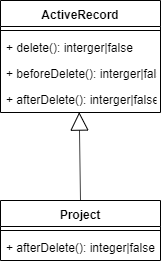
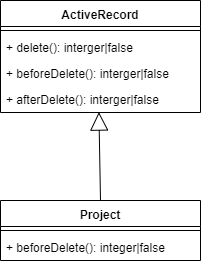
Fix bug Project#delete()

diff --git a/src/app/models/Term.php b/src/app/models/Term.php
@@ -3,6 +3,7 @@
 namespace app\models;
 
 use Yii;
+use yii\helpers\ArrayHelper;
 
 /**
  * This is the model class for table "term".
@@ -21,11 +22,13 @@ use Yii;
  *
  * @property string $projectName
  * @property string $parentTermVocabulary
+ * @property string $typeStr
  */
 class Term extends \yii\db\ActiveRecord
 {
     const TYPE_PROJECT_TERM = 1;
     const TYPE_ADDITIONAL_TERM = 2;
+    const TYPE_OTHER = 3;
 
     /**
      * {@inheritdoc}
@@ -64,6 +67,7 @@ class Term extends \yii\db\ActiveRecord
             'description' => 'Description',
             'type' => 'Type',
             'parent_term_id' => 'Parent Term ID',
+            'typeStr' => 'Type',
         ];
     }
 
@@ -118,5 +122,39 @@ class Term extends \yii\db\ActiveRecord
         //     return NULL;
         // }
         return $this->parent_term_id ? $this->parentTerm->vocabulary : NULL;
+    }
+
+    /**
+     * @return string[]
+     */
+    public static function typeOptionArr()
+    {
+        // [1 => '案件の用語', 2 => '追加用語']
+        return [
+            self::TYPE_PROJECT_TERM => '案件の用語',
+            self::TYPE_ADDITIONAL_TERM => '追加用語',
+            self::TYPE_OTHER => 'その他',
+        ];
+    }
+
+    /**
+     * Property $typeStr
+     * @return string
+     */
+    public function getTypeStr()
+    {
+        // return self::typeOptionArr()[$this->type];
+        return ArrayHelper::getValue(self::typeOptionArr(), $this->type);
+    }
+
+    /**
+     * Delete all child terms before delete this one.
+     */
+    function beforeDelete()
+    {
+        foreach ($this->childTerms as $term) {
+            $term->delete();
+        }
+        return parent::beforeDelete();
     }
 }

diff --git a/src/app/models/Project.php b/src/app/models/Project.php
@@ -77,4 +77,34 @@ class Project extends \yii\db\ActiveRecord
     {
         return $this->hasMany(Term::className(), ['project_id' => 'id']);
     }
+
+    /**
+     * Delete all child terms before delete this one.
+     */
+    // function beforeDelete()
+    // {
+    //     // Delete all term (that does not have parent term)
+    //     foreach ($this->terms as $term) {
+    //         if (!$term->parent_term_id) {
+    //             $term->delete();
+    //         }
+    //     }
+    //     return parent::beforeDelete();
+    // }
+
+    function delete()
+    {
+        foreach ($this->terms as $term) {
+            if (!$term->parent_term_id) {
+                $term->delete();
+            }
+        }
+        parent::delete();
+    }
+
+    // function delete()
+    // {
+    //     Term::deleteAll(['project_id' => $this->id]);
+    //     parent::delete();
+    // }
 }

diff --git a/src/app/views/term/index.php b/src/app/views/term/index.php
@@ -1,5 +1,6 @@
 <?php
 
+use app\models\Term;
 use yii\helpers\Html;
 use yii\grid\GridView;
 
@@ -30,7 +31,11 @@ $this->params['breadcrumbs'][] = $this->title;
             'language',
             'vocabulary',
             'description:ntext',
-            'type',
+            [
+                'attribute' => 'type',
+                'filter' => Term::typeOptionArr(),
+                'value' => 'typeStr',
+            ],
             'parentTermVocabulary',
 
             ['class' => 'yii\grid\ActionColumn'],

diff --git a/src/app/views/term/_form.php b/src/app/views/term/_form.php
@@ -1,5 +1,6 @@
 <?php
 
+use app\models\Term;
 use yii\helpers\Html;
 use yii\widgets\ActiveForm;
 
@@ -20,7 +21,7 @@ use yii\widgets\ActiveForm;
 
     <?= $form->field($model, 'description')->textarea(['rows' => 6]) ?>
 
-    <?= $form->field($model, 'type')->textInput() ?>
+    <?= $form->field($model, 'type')->radioList(Term::typeOptionArr()) ?>
 
     <?= $form->field($model, 'parent_term_id')->textInput() ?>
 

diff --git a/src/app/config/db.php b/src/app/config/db.php
@@ -8,7 +8,7 @@ return [
     'charset' => 'utf8',
 
     // Schema cache options (for production environment)
-    //'enableSchemaCache' => true,
-    //'schemaCacheDuration' => 60,
-    //'schemaCache' => 'cache',
+    'enableSchemaCache' => true,
+    'schemaCacheDuration' => 60,
+    'schemaCache' => 'cache',
 ];

diff --git a/src/app/views/term/view.php b/src/app/views/term/view.php
@@ -33,7 +33,7 @@ $this->params['breadcrumbs'][] = $this->title;
             'language',
             'vocabulary',
             'description:ntext',
-            'type',
+            'typeStr',
             'parentTermVocabulary',
         ],
     ]) ?>

diff --git a/docs/05.2.AR/README.md b/docs/05.2.AR/README.md
@@ -12,8 +12,8 @@ Trong bài này, chúng ta sẽ tìm hiểu sâu hơn về ActiveRecord và các
 * Search model class.
 * Tip
   * DRY
-  * Behavior.
-  * Function override.
+  * Function override
+  * 2 cách xóa term
 
 ## ActiveRecord
 
@@ -121,38 +121,41 @@ public function actionIndex()
 Các tham số tìm kiếm Project, nếu được chỉ định trong params, thì sẽ được đưa vào điều kiện tìm kiếm.
 Nếu không được chỉ định, thì sẽ không được đưa vào điều kiện tìm kiếm.
 ```php
-/**
- * $param array $params array sẽ có một key là ProjectSearch, chứa các điều kiện filter.
- */
-public function search($params)
+class ProjectSearch extends Project
 {
-    // Load các điều kiện filter được chỉ định trong $params['ProjectSearch']
-    // Lệnh này sẽ load $params['ProjectSearch']['id'] vào $this->id
-    // Lệnh này sẽ load $params['ProjectSearch']['name'] vào $this->name
-    // Lệnh này sẽ load $params['ProjectSearch']['remarks'] vào $this->remarks
-    $this->load($params);
+    /**
+     * $param array $params array sẽ có một key là ProjectSearch, chứa các điều kiện filter.
+     */
+    public function search($params)
+    {
+        // Load các điều kiện filter được chỉ định trong $params['ProjectSearch']
+        // Lệnh này sẽ load $params['ProjectSearch']['id'] vào $this->id
+        // Lệnh này sẽ load $params['ProjectSearch']['name'] vào $this->name
+        // Lệnh này sẽ load $params['ProjectSearch']['remarks'] vào $this->remarks
+        $this->load($params);
 
-    $query = Project::find(); // Tạo ra một ActiveQuery
+        $query = Project::find(); // Tạo ra một ActiveQuery
 
-    // Nếu id được chỉ định trong $params, thì câu lệnh SQL sẽ có điều kiện WHERE id = :id
-    $query->andFilterWhere([
-        'id' => $this->id,
-    ]);
+        // Nếu id được chỉ định trong $params, thì câu lệnh SQL sẽ có điều kiện WHERE id = :id
+        $query->andFilterWhere([
+            'id' => $this->id,
+        ]);
 
-    // Nếu name được chỉ định trong $params, thì câu lệnh SQL sẽ có điều kiện WHERE name ilike %NAME%
-    // ở đây NAME hiểu là data được chỉ định trong filter.
-    $query->andFilterWhere(['ilike', 'name', $this->name]);
-    // Nếu remakrs được chỉ định trong $params, thì câu lệnh SQL sẽ có điều kiện WHERE remarks ilike %REMAKRS%
-    // ở đây REMARKS hiểu là data được chỉ định trong filter.
-    $query->andFilterWhere(['ilike', 'remarks', $this->remarks]);
+        // Nếu name được chỉ định trong $params, thì câu lệnh SQL sẽ có điều kiện WHERE name ilike %NAME%
+        // ở đây NAME hiểu là data được chỉ định trong filter.
+        $query->andFilterWhere(['ilike', 'name', $this->name]);
+        // Nếu remakrs được chỉ định trong $params, thì câu lệnh SQL sẽ có điều kiện WHERE remarks ilike %REMAKRS%
+        // ở đây REMARKS hiểu là data được chỉ định trong filter.
+        $query->andFilterWhere(['ilike', 'remarks', $this->remarks]);
 
-    // Tạo ra một DataProvider sẽ tìm kiếm data theo query được chỉ định
-    // DataProvider sẽ gọi câu lệnh query này để lấy về các Project objects theo điều kiện tìm kiếm.
-    $dataProvider = new ActiveDataProvider([
-        'query' => $query,
-    ]);
+        // Tạo ra một DataProvider sẽ tìm kiếm data theo query được chỉ định
+        // DataProvider sẽ gọi câu lệnh query này để lấy về các Project objects theo điều kiện tìm kiếm.
+        $dataProvider = new ActiveDataProvider([
+            'query' => $query,
+        ]);
 
-    return $dataProvider;
+        return $dataProvider;
+    }
 }
 ```
 Ở trên đã sắp xếp lại thứ tự các câu lệnh trong function *search()* cho dễ hiểu hơn, tác dụng của nó vẫn không thay đổi so với code thật.
@@ -174,38 +177,72 @@ term#type có 2 trạng thái
 * edit/view: chúng ta tạo property Term#typeStr (thông qua function Term#getTypeStr()).
 * create/update và filter trong index: chúng ta tạo function Term::typeOptionArr().
 
-## Behavior
-
-[Behavior](https://www.yiiframework.com/doc/guide/2.0/en/concept-behaviors) là cách định nghĩa sẵn flow xử lý trong class, để các child class có thể *đính* thêm code xử lý vào mà không cần phải sửa lại code gốc.
-
-Cụ thể ở đây, sau khi xóa project, chúng ta muốn xóa các term thuộc về project đó.
-
-Ta thực hiện việc đó bằng cách định nghĩa function *Project#afterDelete()*
-```php
-function afterDelete()
-{
-    foreach ($this->terms as $term) {
-        $term->delete();
-    }
-}
-```
-Trong function Project#delete(), nó đã được chỉ định một behavior là gọi function afterDelete() [source code](https://github.com/yiisoft/yii2/blob/master/framework/db/BaseActiveRecord.php#L884).
-
-![afterDelete()](material/AR-ProjectDelete.png)
-
 ## Function override
 
 (Cái này chỉ để demo một khái niệm của OOP)
+
 Khi xóa một project, chúng ta sẽ muốn xóa luôn toàn bộ các term của project đó.
+
+Trước khi xóa project (bằng cách gọi Project#delete()), chúng ta gọi lệnh delete trên các Term thuộc về project đó.
+
+Ta thực hiện việc đó bằng cách định nghĩa function *Project#beforeDelete()*
+```php
+class Project
+{
+    /**
+     * Delete all child terms before delete this one.
+     */
+    function beforeDelete()
+    {
+        // Delete all term (that does not have parent term)
+        foreach ($this->terms as $term) {
+            if (!$term->parent_term_id) {
+                $term->delete();
+            }
+        }
+        return parent::beforeDelete();
+    }
+}
+```
+Trong function Project#delete(), nó có gọi function beforeDelete() [source code](https://github.com/yiisoft/yii2/blob/master/framework/db/BaseActiveRecord.php#L884).
+
+![beforeDelete()](material/AR-ProjectDelete.png)
+
+Chú ý là trong lệnh Project#beforeDelete(), chúng ta chỉ gọi lệnh Term#delete() trên các term không có parent_term_id
+(là các term tiếng Nhật).
+Còn trong Term#beforeDelete(), chúng ta gọi lệnh xóa toàn bộ các child Term trước khi xóa một Term tiếng Nhật.
+```php
+class Term
+{
+    /**
+     * Delete all child terms before delete this one.
+     */
+    function beforeDelete()
+    {
+        foreach ($this->childTerms as $term) {
+            $term->delete();
+        }
+        return parent::beforeDelete();
+    }
+
+}
+```
+
+## 2 cách xóa term
+
 Ngoài cách sử dụng behavior ở trên, chúng ta có thể override luôn function delete() của Project. Thậm chí có nhiều cách để làm việc này.
 * Cách 1
     ```php
-    function delete()
+    class Project
     {
-        parent::delete();
-
-        foreach ($this->terms as $term) {
-            $term->delete();
+        function delete()
+        {
+            foreach ($this->terms as $term) {
+                if (!$term->parent_term_id) {
+                    $term->delete();
+                }
+            }
+            parent::delete();
         }
     }
     ```
@@ -213,17 +250,27 @@ Ngoài cách sử dụng behavior ở trên, chúng ta có thể override luôn 
     ```php
     function delete()
     {
-        parent::delete();
-
         Term::deleteAll(['project_id' => $this->id]);
+        parent::delete();
     }
     ```
 
-Cách 1 ở trên tạo ra nhiều câu lệnh SQL *DELETE term*.
+Cách 1 ở trên tạo ra nhiều câu lệnh SQL *DELETE term* (tùy thuộc vào số lượng term của project). Ví dụ
+```sql
+DELETE FROM "term" WHERE "id"=4
+DELETE FROM "term" WHERE "id"=2
+DELETE FROM "term" WHERE "id"=3
+DELETE FROM "term" WHERE "id"=1
+DELETE FROM "project" WHERE "id"=1
+```
 
 Cách 2 ở trên tạo ra duy nhất 1 câu lệnh SQL *DELETE term*.
+```sql
+DELETE FROM "term" WHERE "project_id"=5
+DELETE FROM "project" WHERE "id"=5
+```
 
 Không thể nói là cách nào tốt hơn cách nào.
 
 Cách 2 nhanh hơn về mặt hiệu suất. Nhưng cách 1 cho phép gọi thêm nhiều xử lý liên quan đến delete một object Term (cũng như khi ta delete một Project, ta muốn xóa toàn bộ các Term của project đó chẳng hạn).
-Trên quan điểm OOP thì ta muốn sử dụng cách 1 (logic thống nhất, ít xảy ra lỗi do bị sót logic cách 2...). Tuy nhiên đôi khi với những xử lý quan trọng về mặt hiệu suất, ta có thể phải xem xét sử dụng cách 2.
+Trên quan điểm OOP thì ta muốn sử dụng cách 1 (logic thống nhất, ít xảy ra lỗi do bị sót logic như cách 2...). Tuy nhiên đôi khi với những xử lý quan trọng về mặt hiệu suất, ta có thể phải xem xét sử dụng cách 2.
